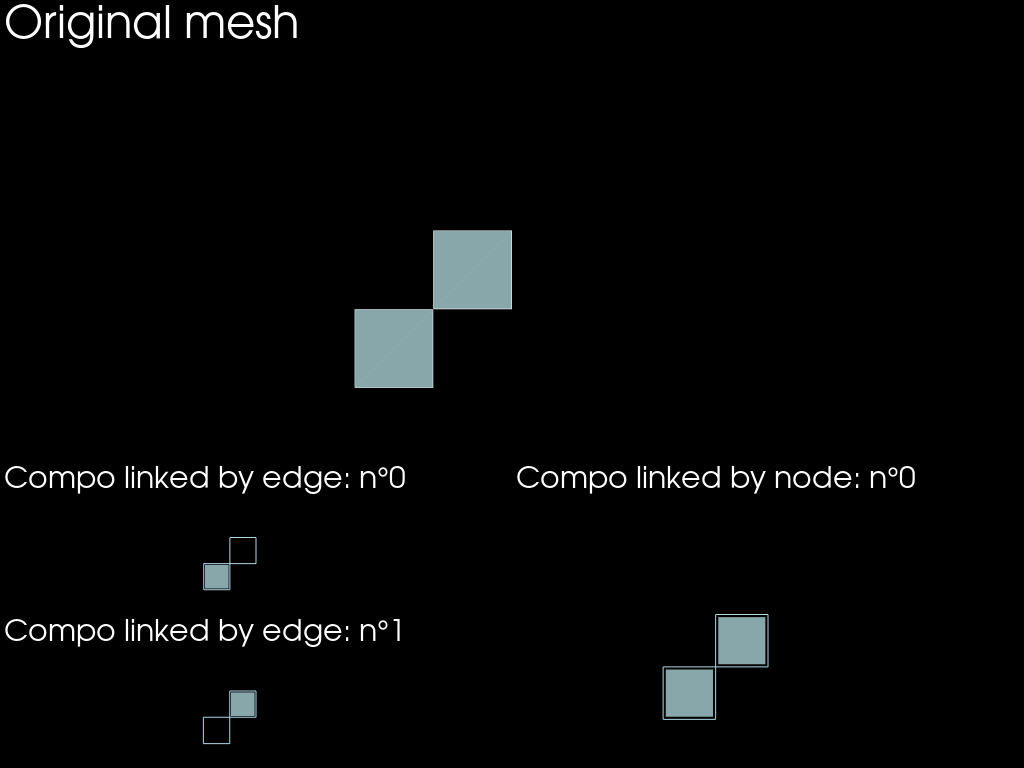
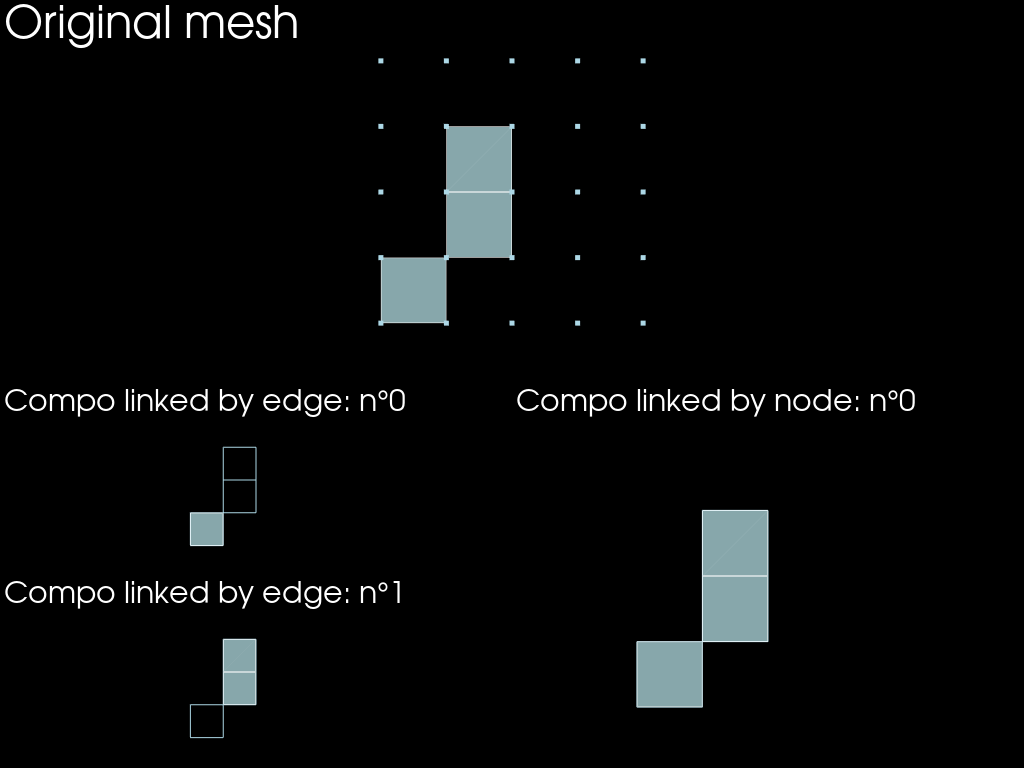
feat(book): update demo of some features
- connected_components is more complete
- cosmetic change of crack feature plot

diff --git a/mefibook/src/python_examples/topological_tools.md b/mefibook/src/python_examples/topological_tools.md
@@ -100,23 +100,27 @@ plotter.show()
 
 
 ```python
-x, y = np.meshgrid(np.linspace(0, 1, 5), np.linspace(0.0, 1.0, 5))
+x, y = np.meshgrid(np.linspace(0.0, 1.0, 5), np.linspace(0.0, 1.0, 5))
 coords = np.c_[x.flatten(), y.flatten()]
 conn = np.array(
     [
         [0, 1, 6, 5],
         [6, 7, 12, 11],
+        # [2, 3, 8, 7],
+        [11, 12, 17, 16],
+
     ],
     dtype=np.uint,
 )
 mesh = mf.UMesh(coords)
 mesh.add_regular_block("QUAD4", conn)
+mesh.add_regular_block("VERTEX", np.arange(len(coords), dtype=np.uint)[..., np.newaxis])
 ```
 
 
 ```python
-compos_link_edge = mesh.connected_components(src_dim=2, link_dim=1)
-compos_link_node = mesh.connected_components(src_dim=2, link_dim=0)
+compos_link_edge = mesh.connected_components(link_dim=1)
+compos_link_node = mesh.connected_components(link_dim=0)
 
 print(f"{len(compos_link_edge)=}")
 print(f"{len(compos_link_node)=}")
@@ -131,7 +135,7 @@ print(f"{len(compos_link_node)=}")
 edges = mesh.submesh()
 
 shape = (3, 2)
-row_weights = [1.5, 0.5, 0.5]
+row_weights = [1., 0.5, 0.5]
 groups = [
     (0, np.s_[:]),
     (1, 0),
@@ -149,14 +153,14 @@ for i, compo in enumerate(compos_link_edge):
     plotter.subplot(i + 1, 0)
     plotter.add_text(f"Compo linked by edge: n°{i}")
     plotter.add_mesh(edges.to_pyvista())
-    plotter.add_mesh(compo.to_pyvista().shrink(0.9))
+    plotter.add_mesh(compo.to_pyvista(), show_edges=True)
     plotter.camera_position = "xy"
 
 for i, compo in enumerate(compos_link_node):
     plotter.subplot(i + 1, 1)
     plotter.add_text(f"Compo linked by node: n°{i}")
     plotter.add_mesh(edges.to_pyvista())
-    plotter.add_mesh(compo.to_pyvista().shrink(0.9))
+    plotter.add_mesh(compo.to_pyvista(), show_edges=True)
     plotter.camera_position = "xy"
 plotter.show()
 ```
@@ -220,7 +224,7 @@ plotter.add_mesh(faces.to_pyvista().shrink(0.8), show_edges=True)
 plotter.subplot(1, 0)
 plotter.add_text("Compo of original mesh")
 plotter.add_mesh(edges.to_pyvista())
-plotter.add_mesh(compos_original[0].to_pyvista().shrink(0.9))
+plotter.add_mesh(compos_original[0].to_pyvista(), show_edges=True)
 
 plotter.subplot(1, 1)
 plotter.add_text("Compos of cracked mesh")
@@ -228,7 +232,7 @@ plotter.add_text("Compos of cracked mesh")
 for i, compo in enumerate(compos_cracked):
     plotter.subplot(2, i + 1)
     plotter.add_mesh(edges.to_pyvista())
-    plotter.add_mesh(compo.to_pyvista().shrink(0.9))
+    plotter.add_mesh(compo.to_pyvista(), show_edges=True)
     plotter.camera.zoom(2)
 plotter.show()
 ```
